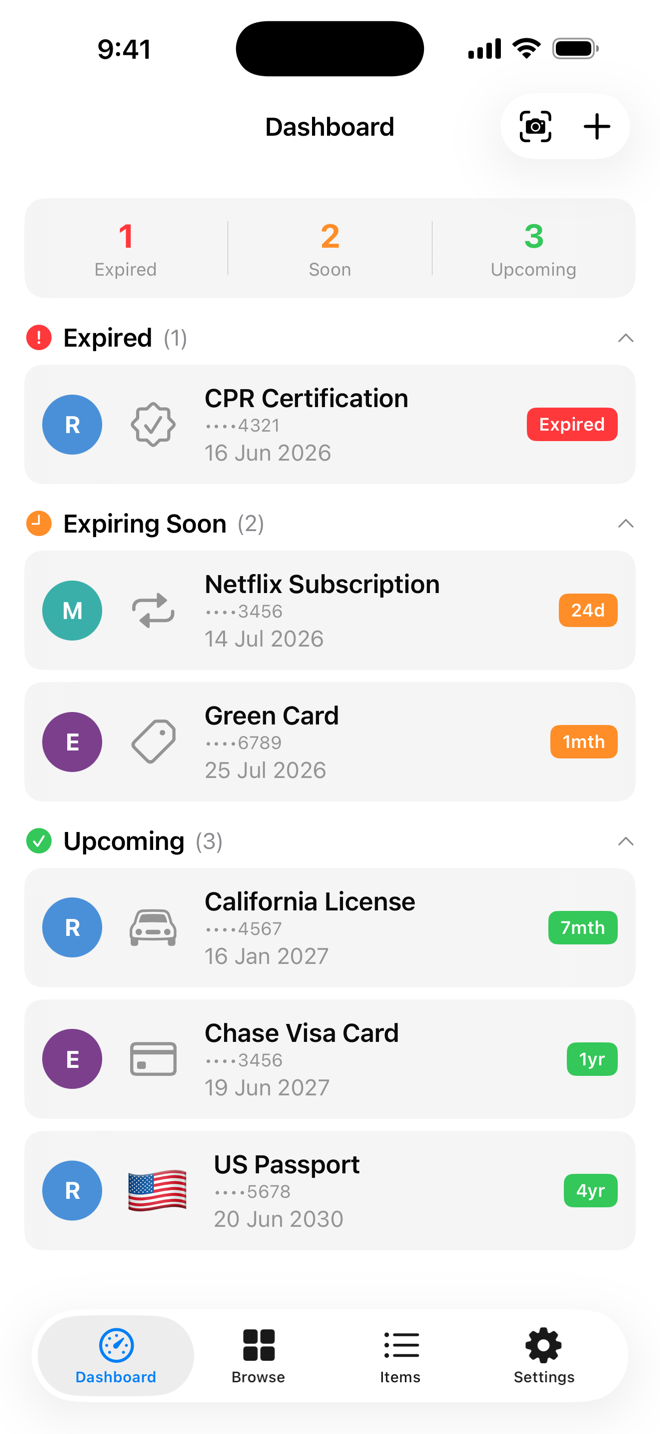
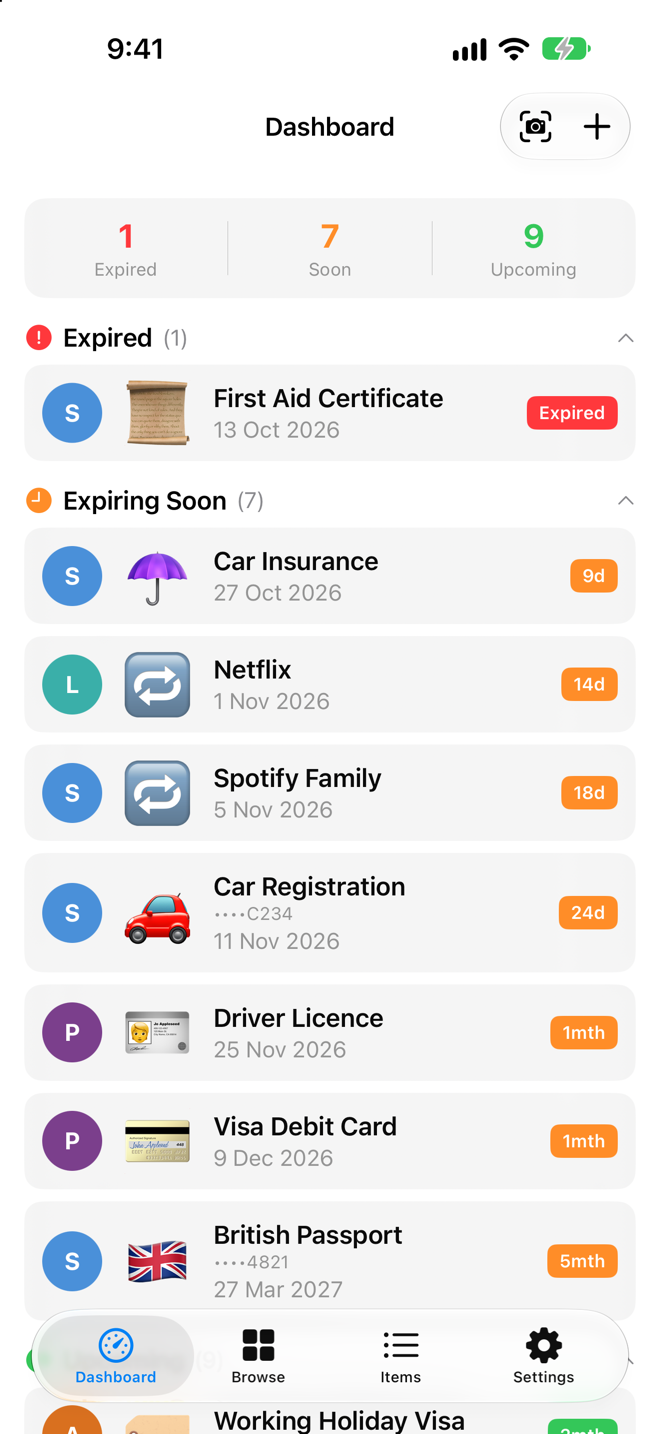
Refresh site for 1.1.1: emoji item types, international screenshots, social card
- New Browse section listing every item type with its picture
- Dashboard, Items and People screenshots retaken with international sample data
- Reminders copy mentions per-type default lead times; rego in hero copy
- Open Graph card image for link previews

diff --git a/index.html b/index.html
@@ -5,14 +5,17 @@
   <meta name="viewport" content="width=device-width, initial-scale=1">
   <link rel="canonical" href="https://hexpiry.com/">
   <title>Hexpiry — Never miss an expiry date</title>
-  <meta name="description" content="Hexpiry tracks everything that expires — passports, licences, cards, subscriptions — and reminds you in time to renew. Private by design: your data never leaves your iCloud.">
+  <meta name="description" content="Hexpiry tracks everything that expires — passports, licences, car rego, cards, insurance, subscriptions — and reminds you in time to renew. Private by design: your data never leaves your iCloud.">
 
   <!-- Open Graph / social sharing -->
   <meta property="og:title" content="Hexpiry — Never miss an expiry date">
   <meta property="og:description" content="Track everything that expires and get reminded in time to renew. Private by design.">
   <meta property="og:type" content="website">
   <meta property="og:url" content="https://hexpiry.com/">
-  <meta property="og:image" content="https://hexpiry.github.io/images/icon-256.png">
+  <meta property="og:image" content="https://hexpiry.com/images/og-card.png">
+  <meta property="og:image:width" content="1200">
+  <meta property="og:image:height" content="675">
+  <meta name="twitter:card" content="summary_large_image">
   <meta name="theme-color" content="#1e3a8a">
 
   <link rel="icon" type="image/png" sizes="32x32" href="images/favicon-32.png">
@@ -206,7 +209,7 @@
     <img class="icon" src="images/icon-256.png" alt="Hexpiry app icon" width="96" height="96">
     <h1>Hexpiry</h1>
     <p class="tagline">Never miss an expiry date.</p>
-    <p class="sub">Passports, licences, cards, insurance, subscriptions — Hexpiry keeps track of everything that expires and reminds you in time to renew.</p>
+    <p class="sub">Passports, licences, car rego, cards, insurance, subscriptions — Hexpiry keeps track of everything that expires and reminds you in time to renew.</p>
 
     <a class="appstore" href="https://apps.apple.com/app/hexpiry/id6777631864" aria-label="Download Hexpiry on the App Store">
       <svg viewBox="0 0 384 512" fill="currentColor" aria-hidden="true"><path d="M318.7 268.7c-.2-36.7 16.4-64.4 50-84.8-18.8-26.9-47.2-41.7-84.7-44.6-35.5-2.8-74.3 20.7-88.5 20.7-15 0-49.4-19.7-76.4-19.7C63.3 141.2 4 184.8 4 273.5q0 39.3 14.4 81.2c12.8 36.7 59 126.7 107.2 125.2 25.2-.6 43-17.9 75.8-17.9 31.8 0 48.3 17.9 76.4 17.9 48.6-.7 90.4-82.5 102.6-119.3-65.2-30.7-61.7-90-61.7-91.9zm-56.6-164.2c27.3-32.4 24.8-61.9 24-72.5-24.1 1.4-52 16.4-67.9 34.9-17.5 19.8-27.8 44.3-25.6 71.9 26.1 2 49.9-11.4 69.5-34.3z"/></svg>
@@ -237,22 +240,39 @@
 
     <section class="row reverse">
       <div class="copy">
+        <p class="eyebrow">Everything that expires</p>
+        <h2>Passports to rego, all sorted.</h2>
+        <p>Browse everything by type — each with its own picture, so you can spot it at a glance:</p>
+        <ul>
+          <li>🛂 Passports, with each country's flag</li>
+          <li>🪪 Driver licences and 🚗 vehicle registration</li>
+          <li>💳 Bank cards and ☂ insurance policies</li>
+          <li>📜 Certifications, 🔁 subscriptions and 🏷 anything else</li>
+        </ul>
+      </div>
+      <div class="art">
+        <div class="phone"><img src="images/screen-browse.png" alt="Browse screen with a picture tile for each item type"></div>
+      </div>
+    </section>
+
+    <section class="row">
+      <div class="copy">
         <p class="eyebrow">Never get caught out</p>
         <h2>Reminders that arrive in time.</h2>
         <p>Set how far ahead you want the heads-up and Hexpiry does the rest:</p>
         <ul>
-          <li>Passports flag earlier — many countries need months of validity to let you in.</li>
+          <li>Each type starts with a sensible lead time — passports months ahead (many countries need months of validity to let you in), subscriptions a week before they renew.</li>
           <li>Repeat reminders so an important renewal doesn't slip.</li>
           <li>A colour-coded dashboard: red for expired, orange for soon, green for plenty of time.</li>
           <li>Your expired count, right on the app icon.</li>
         </ul>
       </div>
       <div class="art">
-        <div class="phone"><img src="images/screen-dashboard.png" alt="Colour-coded dashboard of upcoming expiries"></div>
+        <div class="phone"><img src="images/screen-items.png" alt="Items list with colour-coded countdowns to each expiry"></div>
       </div>
     </section>
 
-    <section class="row">
+    <section class="row reverse">
       <div class="copy">
         <p class="eyebrow">For the whole household</p>
         <h2>Everyone's documents, one tidy list.</h2>
@@ -263,7 +283,7 @@
       </div>
     </section>
 
-    <section class="row reverse">
+    <section class="row">
       <div class="copy">
         <p class="eyebrow">At a glance</p>
         <h2>Right on your home screen.</h2>
